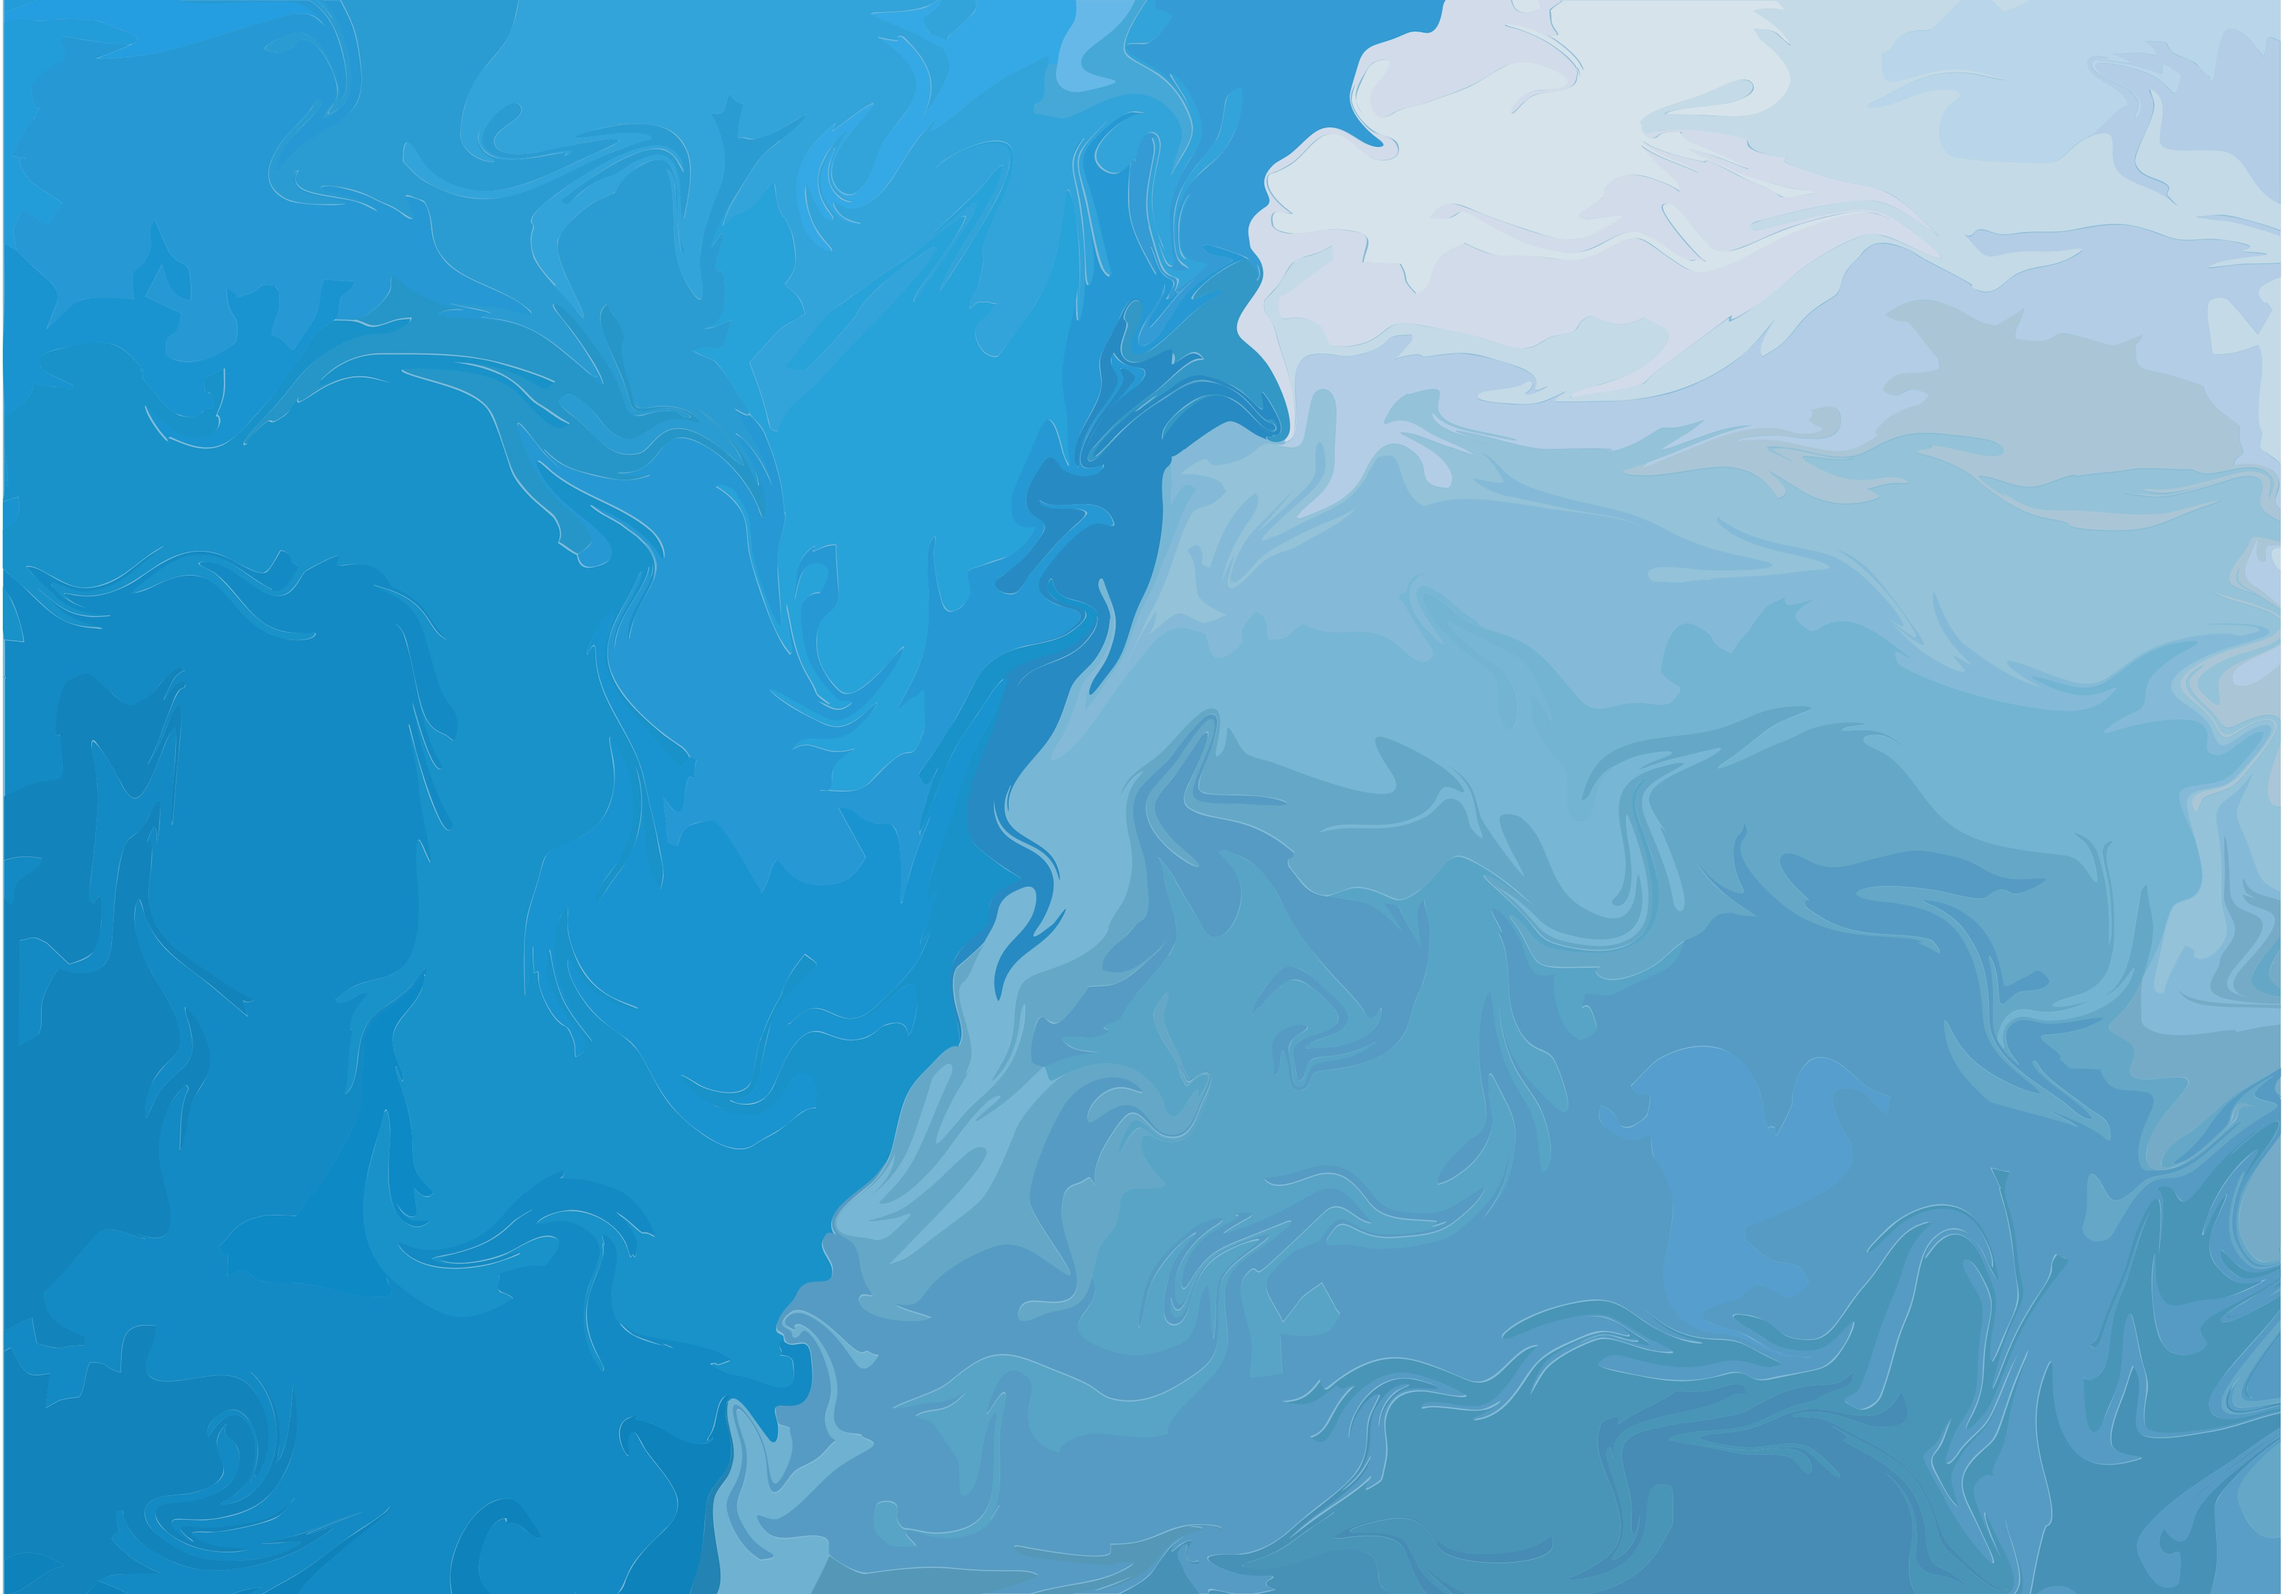
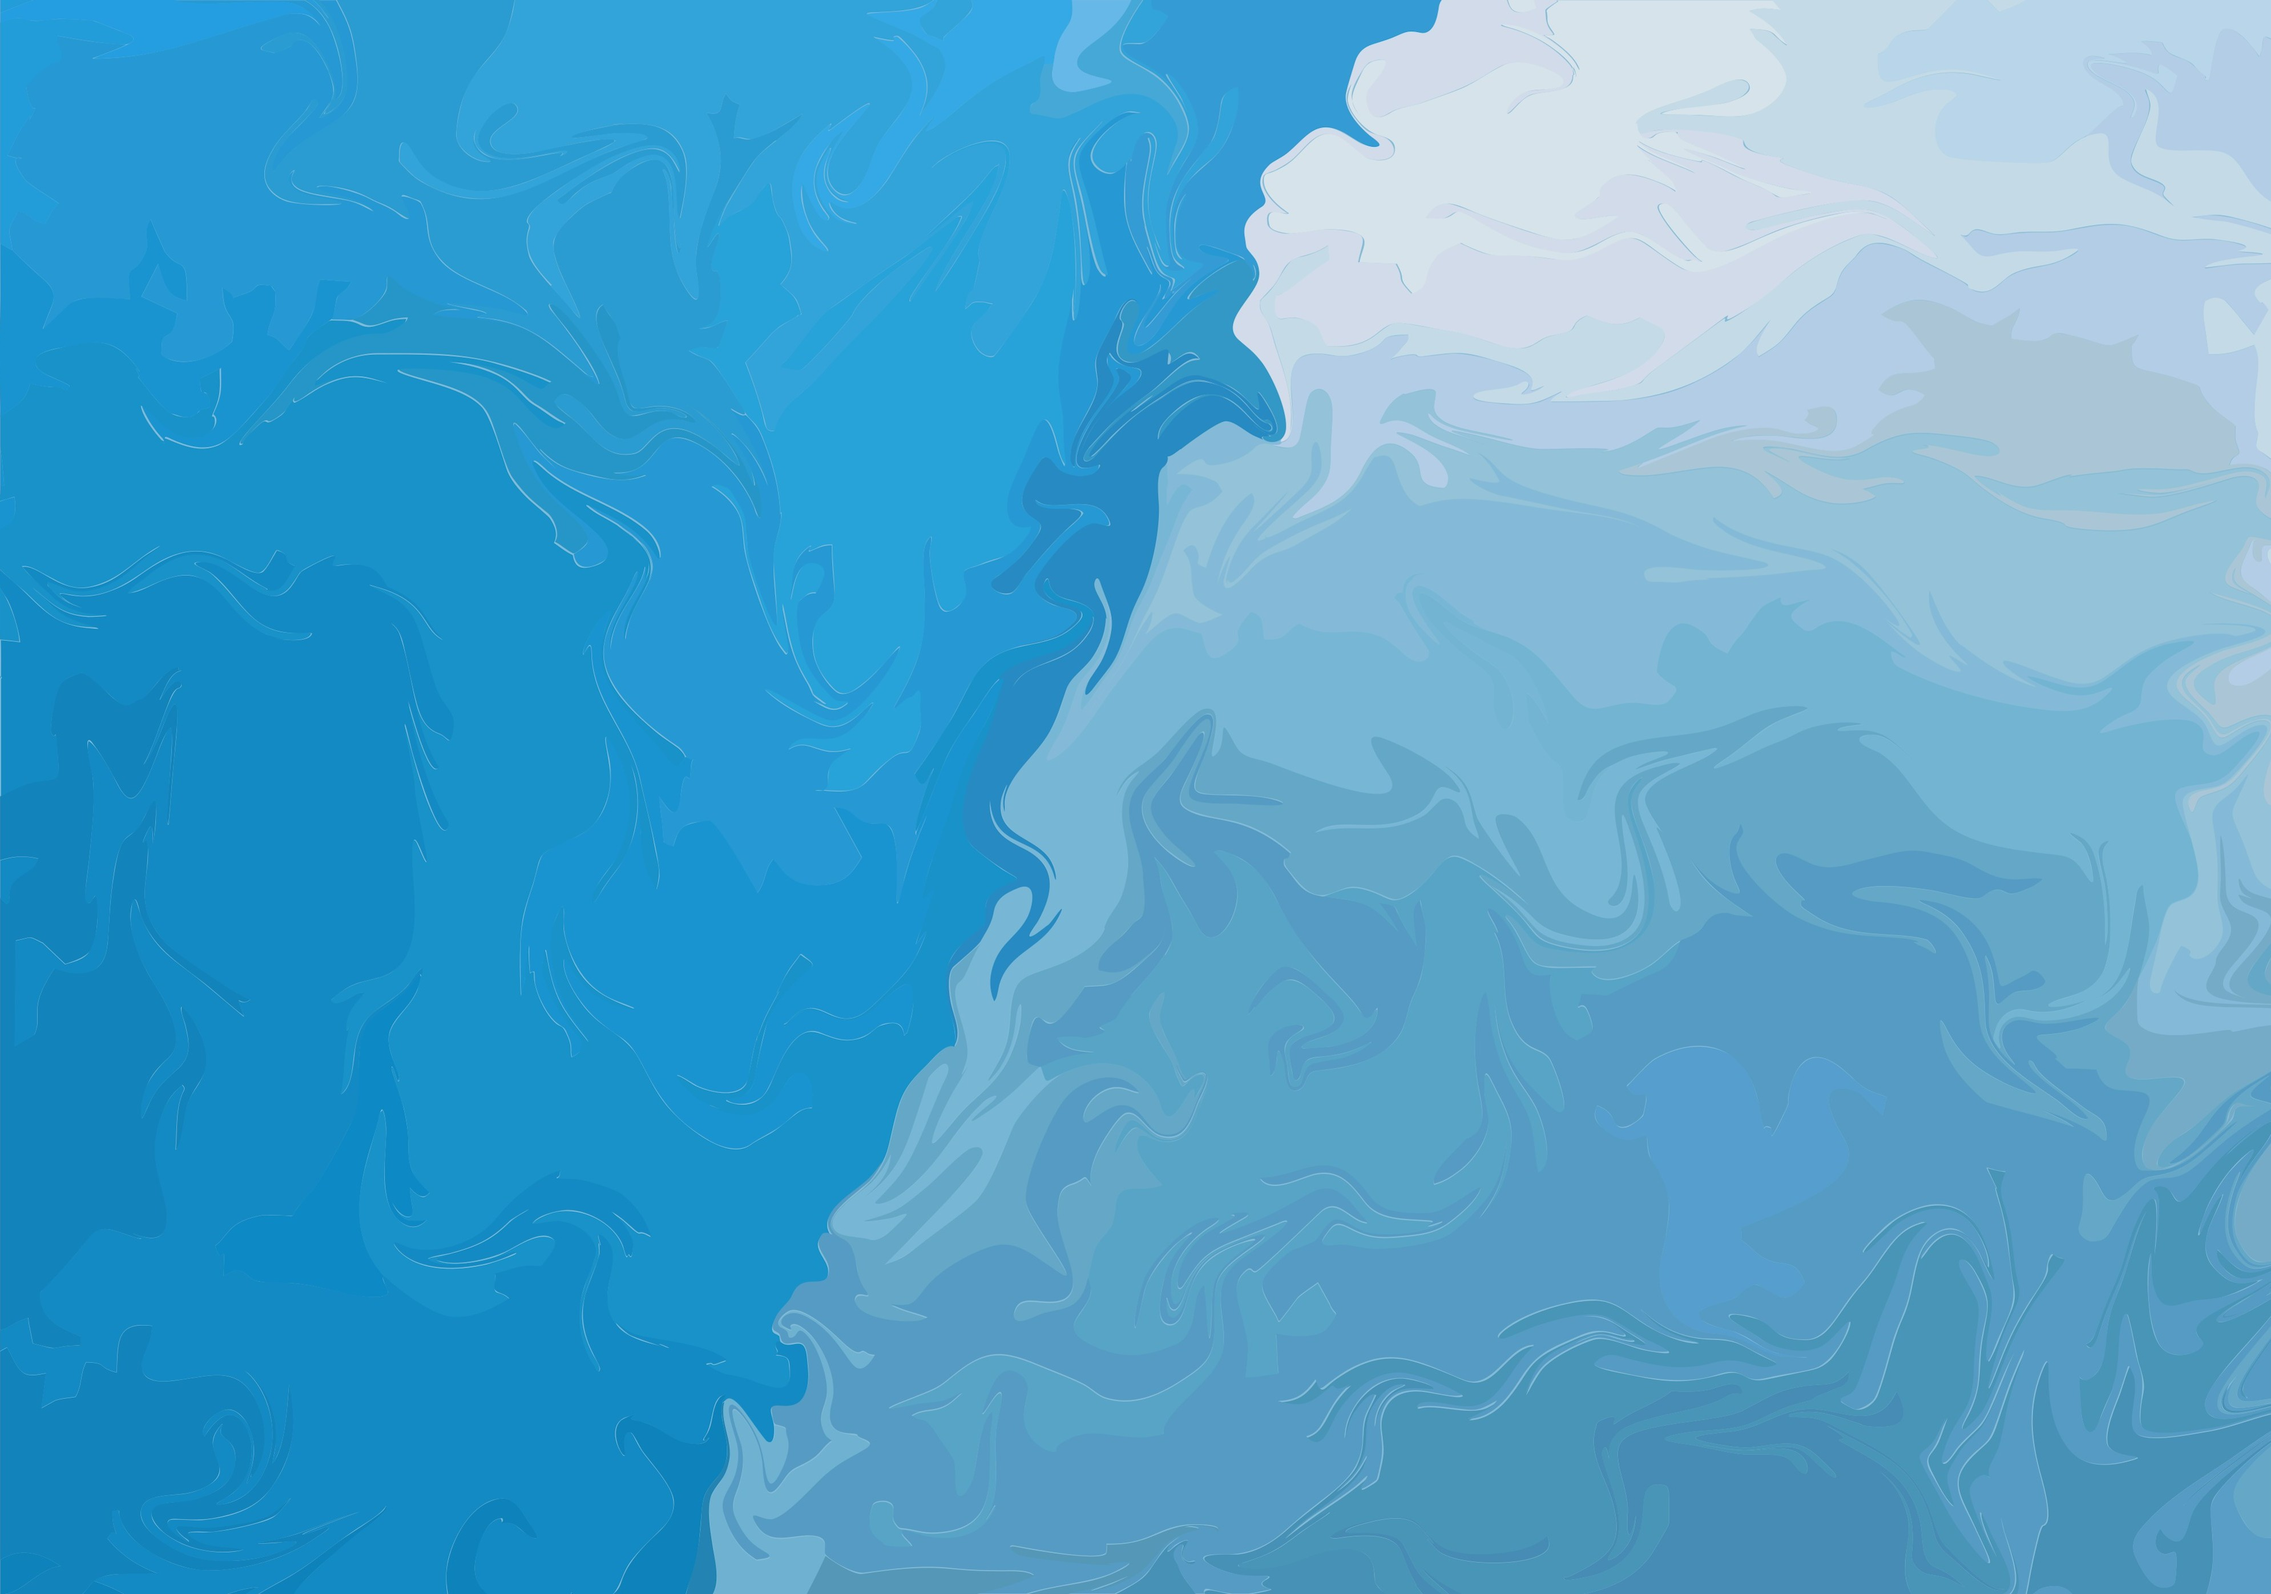
Password hide/show

diff --git a/src/components/login/Login.css b/src/components/login/Login.css
@@ -49,6 +49,7 @@
     font-weight: 500;
 }
 
+
 .input-box input {
     width: 100%;
     height: 85%;
@@ -62,17 +63,26 @@
     font-size: 18px;
 }
 
-.wrapper .forgot {
-    font-size: 16px;
+
+.input-box input#pwd {
+    width: 90%;
+    border: none;
+    
 }
 
-.forgot label input {
-    accent-color: #FFF;
-    margin-right: 4px;
+
+
+
+.wrapper .forgot {
+    font-size: 16px;
+    margin-top: 24px;
 }
+
+
 
 .forgot a {
     color: #F9AFAF;
+    
 }
 
 .forgot a:hover {
@@ -84,7 +94,7 @@
     width: 40%;
     height: 50px;
     background-color: #0E72E5;
-    border: 1px solid #EDF2F4;
+    border: 0.3px solid #EDF2F4;
     outline: none;
     border-radius: 10px;
     cursor: pointer;
@@ -100,6 +110,37 @@
     transition: background-color 0.2s ease-in-out;
 }
 
+
+.password-box .password-eye{
+    height: 100%;
+    width: 10%;
+    padding: auto;
+    font-size: 18px;
+    background-color: #EDF2F4;
+    color: #000;
+    margin-top: 0px;
+    outline: none;
+    border-radius: 0px 10px 10px 0px;
+    cursor: pointer;   
+    font-weight:700;
+    box-shadow: 0 0px 0px rgba(0, 0, 0, 0);
+    
+}
+
+.password-box {
+   background-color: #EDF2F4;
+   border-radius: 10px;
+   
+}
+
+.password-box input {
+    height: 100%;
+}
+
+.wrapper button:hover {
+    background-color: #EDF2F4;
+}
+
 .wrapper .register-link {
     font-size: 16px;
     margin: 20px 0 15px;
@@ -108,5 +149,6 @@
 .register-link p a {
     color: #F8C291;
     font-weight: 700;
+    margin-left: 4px;
 
 }

diff --git a/src/components/login/Login.jsx b/src/components/login/Login.jsx
@@ -1,7 +1,19 @@
-import React from 'react'
+import React, { useState } from 'react'
 import './Login.css'
 
+import { BsEye, BsEyeSlash } from "react-icons/bs";
+
+
 const Login = () => {
+
+    const [show, setShow] = useState(false);
+
+    const handleClick = (e) => {
+        e.preventDefault(); // prevents form submit
+        setShow(!show);
+    };
+
+
     return (
         <div className='wrapper'>
             <div className="heading">
@@ -21,7 +33,12 @@ const Login = () => {
                 
                 <div className="input-box">
                     <label for="pwd">Password:</label>
-                    <input type="password" id="pwd" required />
+                    <div className="password-box">
+                        <input type={show ? "text" : "password"} id="pwd" required />
+                        <button className='password-eye' onClick={handleClick}>
+                            {show ? <BsEyeSlash /> : <BsEye />}
+                        </button>
+                    </div>
                 </div>
                
 
@@ -37,7 +54,11 @@ const Login = () => {
             </form>
 
         </div>
+
     );
 };
+
+
+
 
 export default Login;
